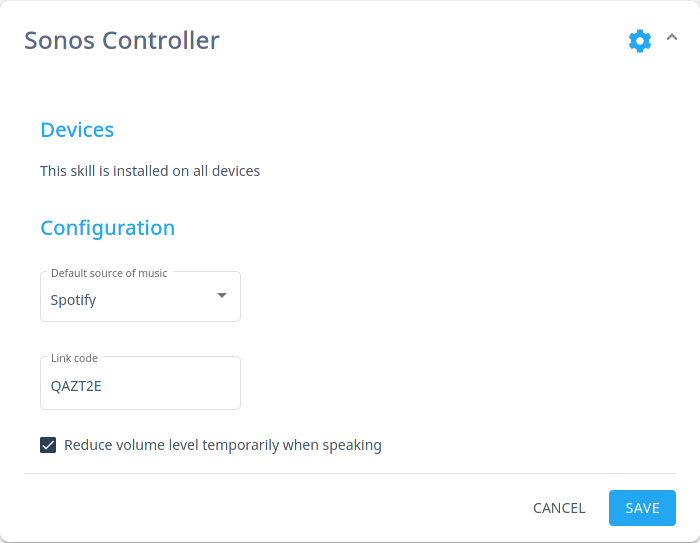
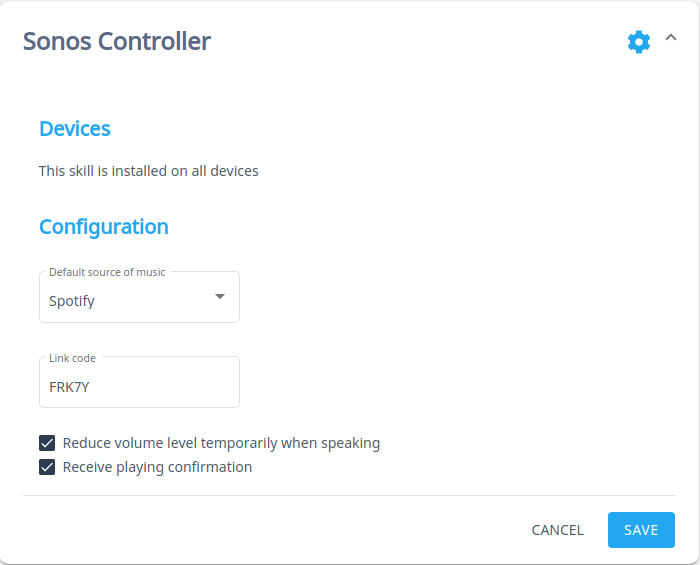
[readme] Update documentation

diff --git a/README.md b/README.md
@@ -66,13 +66,15 @@ This skill utilizes the `settings.json` file which allows you to configure this 
 
 Fill this out with your appropriate information and hit the `save` button.
 
-When Spotify music service is selected Mycroft will speak to you with a URL and code to follow. This URL is https://sonos.smartgic.io/CODE where `CODE` will be automatically and randomly generated by Mycroft and spoken to you *(e.g. Visit sonos.smartgic.io/QAZT2E)*.
+When Spotify music service is selected Mycroft will speak to you with a URL and code to follow. This URL is https://sonos.smartgic.io/CODE where `CODE` will be automatically and randomly generated by Mycroft and spoken to you *(e.g. Visit sonos.smartgic.io/FRK7Y)*.
 
 https://sonos.smartgic.io is a URL shortener system which will temporary store the music service authentication URL. Once the authentication is done, the URL will be deleted from the URL shortener system.
 
 This link will redirect you to the music service authentication login page using `https` protocol.
 
 <img src='docs/spotify-auth.png' width='450'/>
+
+<img src='docs/sonos-spotify-agreement.png' width='450'/>
 
 Once you successfully logged to Spotify, enter the same code as provided before into the `Link Code` field. Mycroft will confirm the configuration and gives you some example of what you could say.
 
